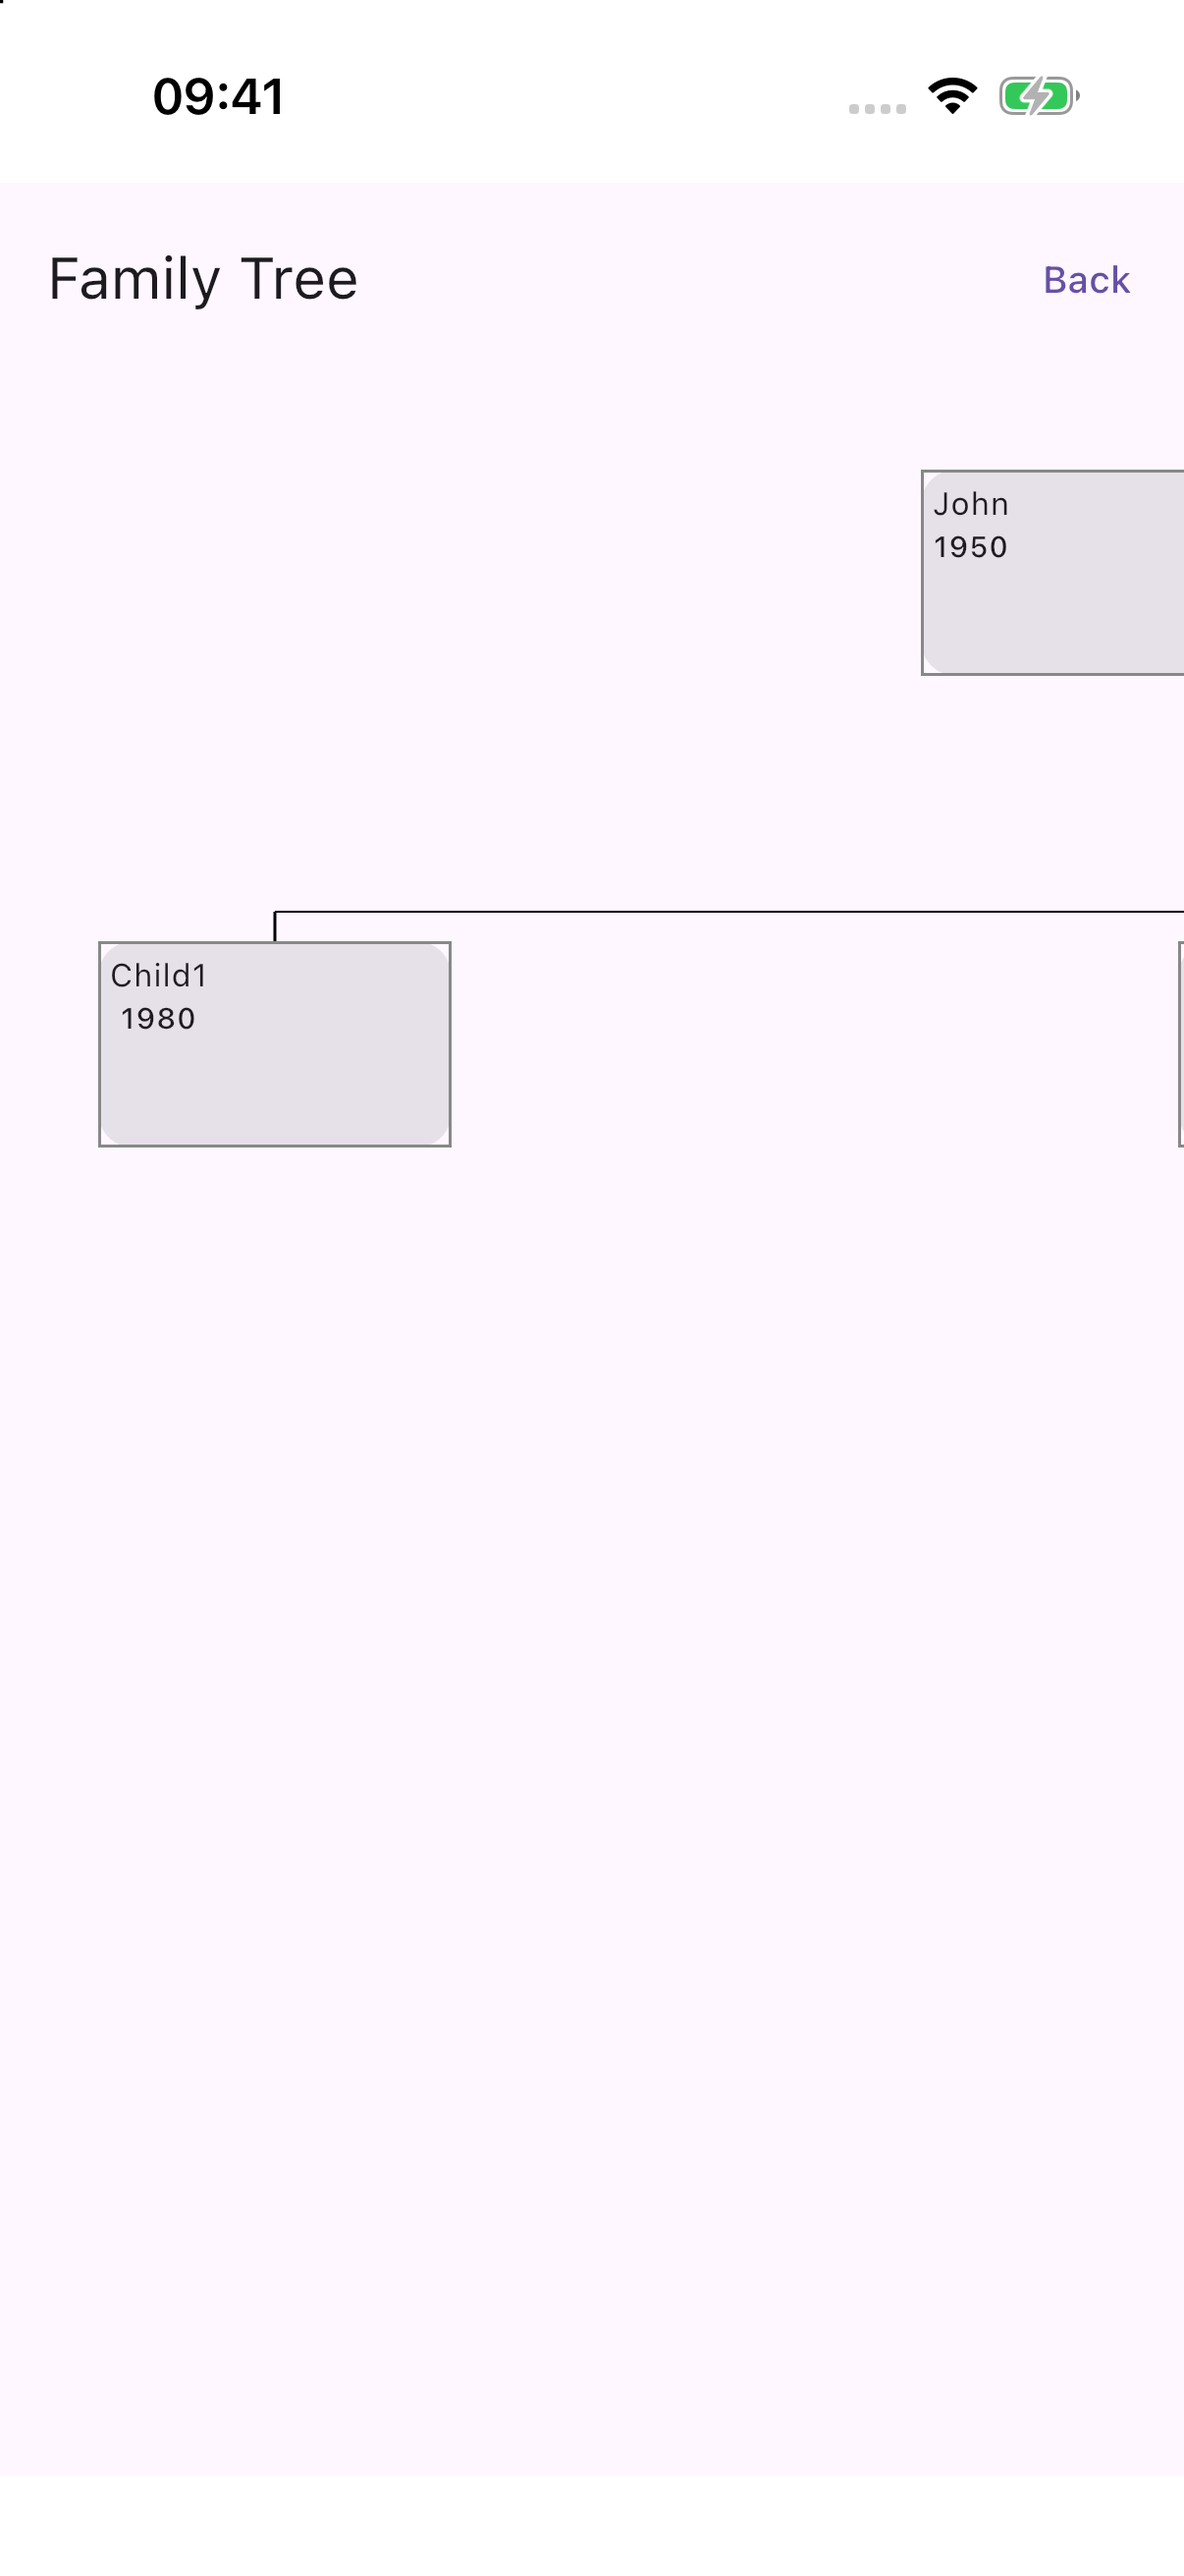
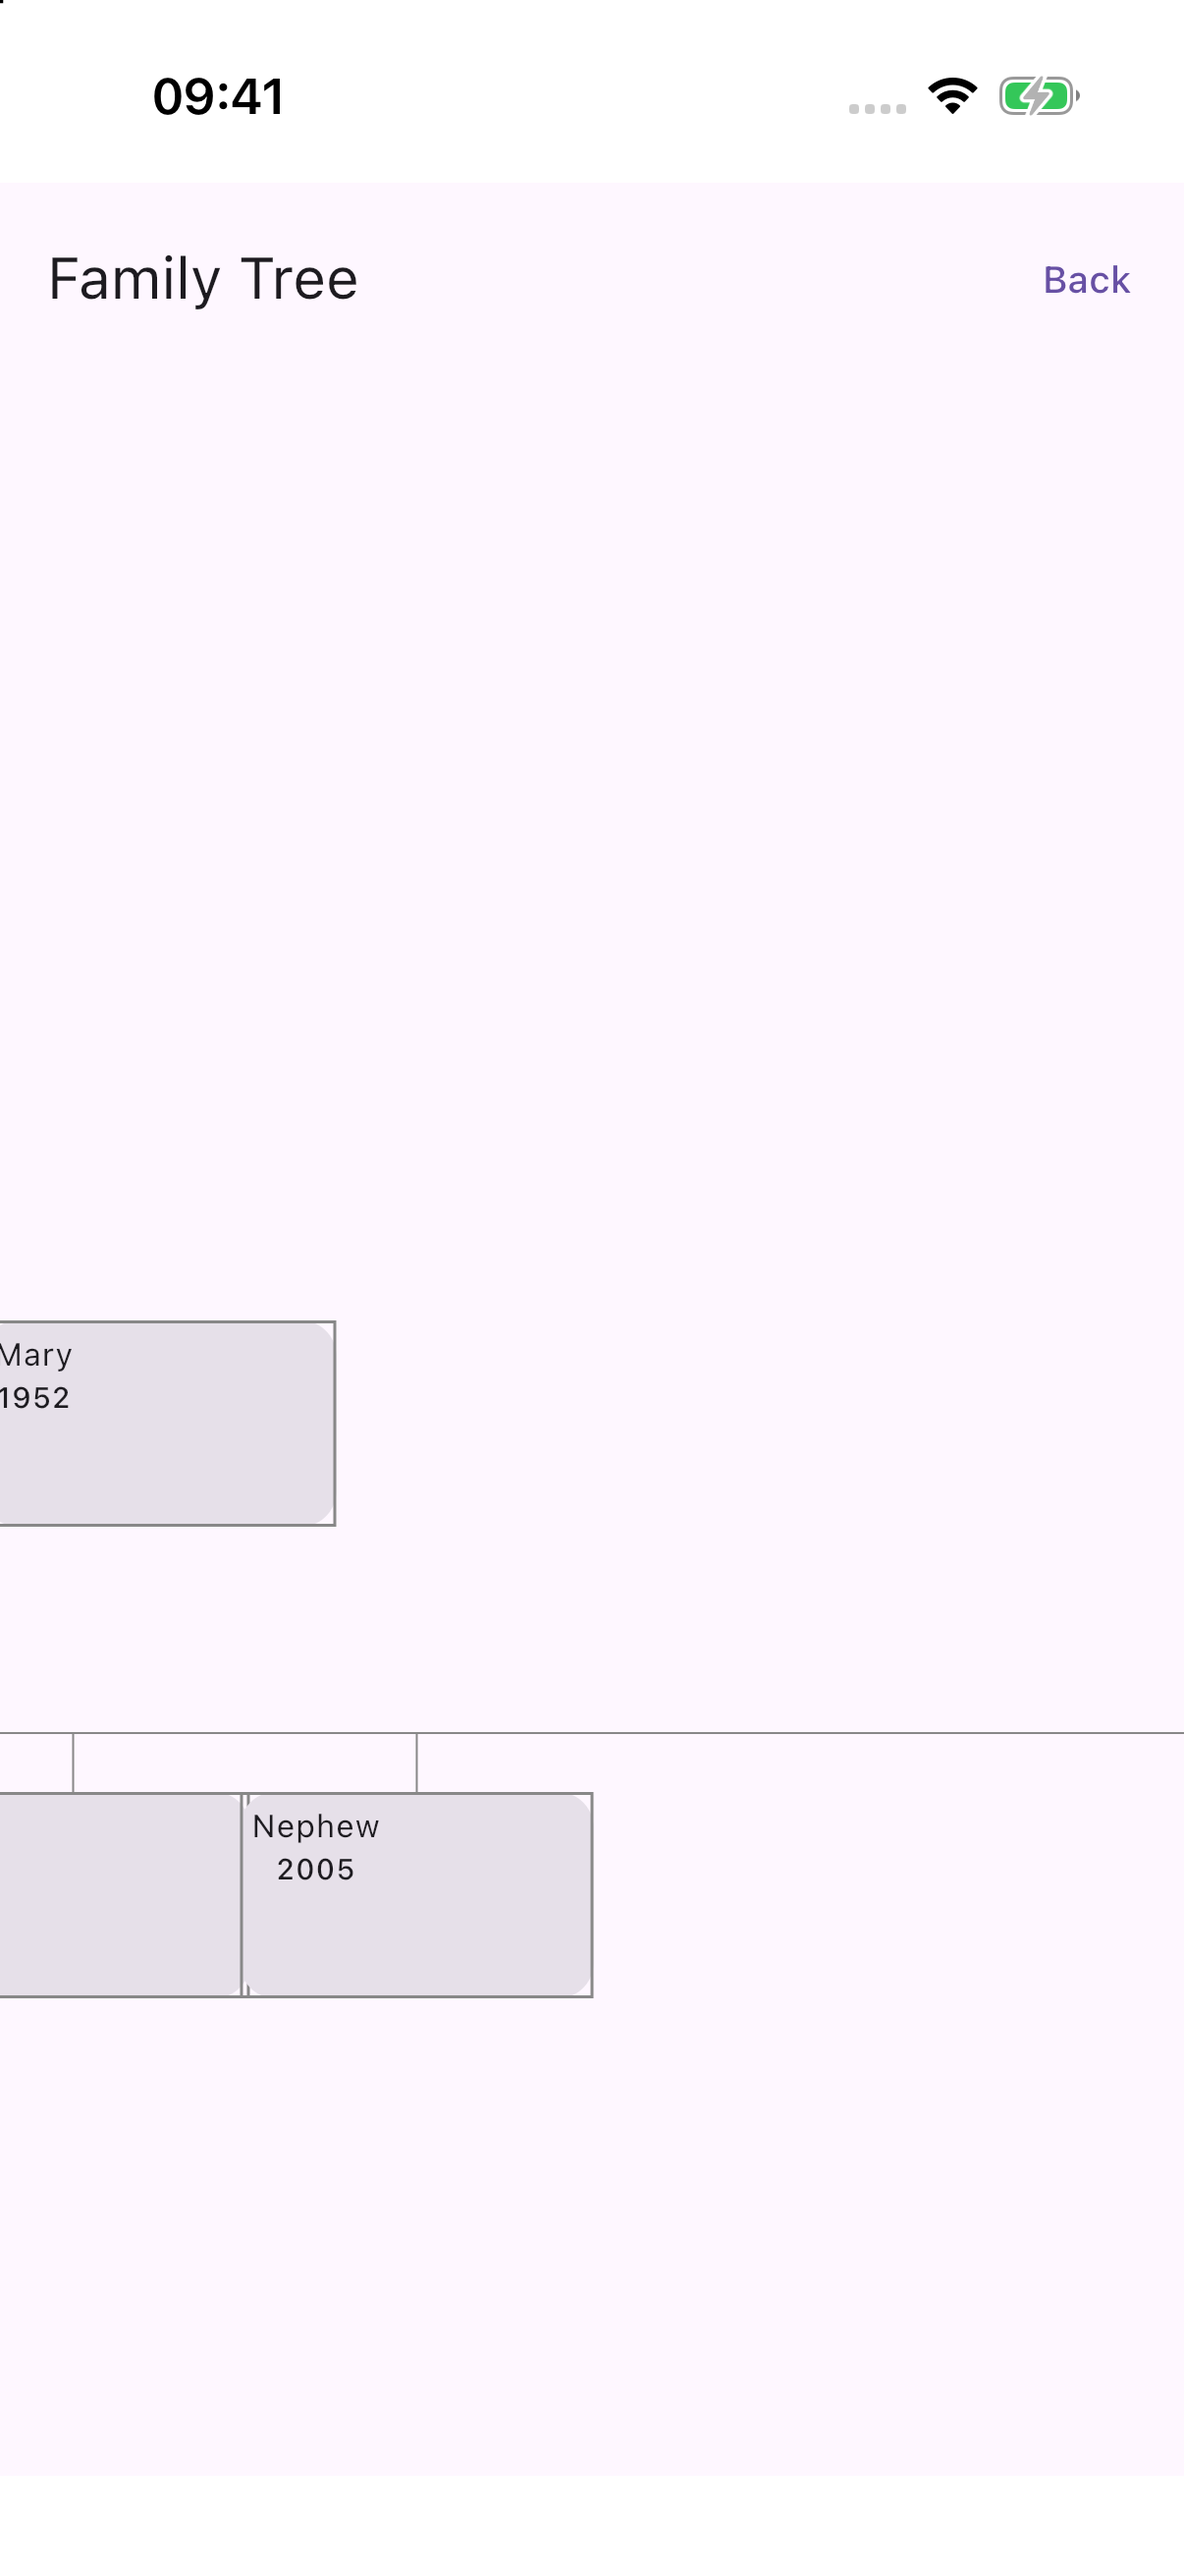
Unify tree rendering, add person focus, and clarify union junctions
Port two upstream FamilyTreeApp commits (7a4f585, 3f734fa) into the
Family Tree screen:
- Size the pan/zoom canvas to the actual graph bounds, auto-focus and
  center an initial (or caller-specified) person, and support
  per-person click callbacks with a highlighted border.
- Replace the straight spouse-to-spouse union line with a routed
  junction: partners connect at a dot between their cards, single
  parents get a short drop to the same junction, and children branch
  from it via a shared horizontal line, keeping dashed adoption links
  and red incestuous-union coloring.

diff --git a/composeApp/src/commonMain/kotlin/com/hannes/familytree/ui/tree/FamilyTreeView.kt b/composeApp/src/commonMain/kotlin/com/hannes/familytree/ui/tree/FamilyTreeView.kt
@@ -2,17 +2,20 @@ package com.hannes.familytree.ui.tree
 
 import androidx.compose.foundation.Canvas
 import androidx.compose.foundation.border
+import androidx.compose.foundation.clickable
 import androidx.compose.foundation.gestures.detectTransformGestures
 import androidx.compose.foundation.layout.Box
 import androidx.compose.foundation.layout.BoxWithConstraints
 import androidx.compose.foundation.layout.Column
 import androidx.compose.foundation.layout.fillMaxSize
 import androidx.compose.foundation.layout.padding
+import androidx.compose.foundation.layout.requiredSize
 import androidx.compose.foundation.layout.size
 import androidx.compose.material3.Card
 import androidx.compose.material3.MaterialTheme
 import androidx.compose.material3.Text
 import androidx.compose.runtime.Composable
+import androidx.compose.runtime.LaunchedEffect
 import androidx.compose.runtime.Stable
 import androidx.compose.runtime.getValue
 import androidx.compose.runtime.mutableStateOf
@@ -68,14 +71,43 @@ fun LazyFamilyTree(
     nodeWidth: Dp = 120.dp,
     nodeHeight: Dp = 70.dp,
     state: FamilyTreeState = rememberFamilyTreeState(),
+    focusedPersonId: String? = null,
+    onPersonClick: (Person) -> Unit = {},
     nodeContent: @Composable (Person) -> Unit = { DefaultPersonCard(it) }
 ) {
     val density = LocalDensity.current
     val nodeWidthPx = with(density) { nodeWidth.toPx() }
     val nodeHeightPx = with(density) { nodeHeight.toPx() }
+    val graphWidthPx = maxOf(
+        graph.width,
+        graph.persons.values.maxOfOrNull { it.x + nodeWidthPx } ?: 0f
+    )
+    val graphHeightPx = maxOf(
+        graph.height,
+        graph.persons.values.maxOfOrNull { it.y + nodeHeightPx } ?: 0f
+    )
+    val graphWidth = with(density) { graphWidthPx.toDp() }.coerceAtLeast(nodeWidth)
+    val graphHeight = with(density) { graphHeightPx.toDp() }.coerceAtLeast(nodeHeight)
+    val initialPersonId = graph.persons.values
+        .minWithOrNull(compareBy<Person> { it.y }.thenBy { it.x })
+        ?.id
+    var internallyFocusedPersonId by remember(graph) {
+        mutableStateOf(focusedPersonId ?: initialPersonId)
+    }
+    val activeFocusedPersonId = focusedPersonId ?: internallyFocusedPersonId
 
     BoxWithConstraints(modifier = modifier.fillMaxSize()) {
         val viewportSize = Size(constraints.maxWidth.toFloat(), constraints.maxHeight.toFloat())
+        val focusedPerson = activeFocusedPersonId?.let(graph.persons::get)
+
+        LaunchedEffect(activeFocusedPersonId, focusedPerson?.x, focusedPerson?.y, viewportSize, state) {
+            if (focusedPerson != null) {
+                state.offset = Offset(
+                    viewportSize.width / 2f - (focusedPerson.x + nodeWidthPx / 2f) * state.scale,
+                    viewportSize.height / 2f - (focusedPerson.y + nodeHeightPx / 2f) * state.scale
+                )
+            }
+        }
 
         // Visible area in graph coordinates: (viewport boundary - offset) / scale
         val visibleRect = Rect(
@@ -96,7 +128,8 @@ fun LazyFamilyTree(
         ) {
             Box(
                 modifier = Modifier
-                    .fillMaxSize()
+                    .align(Alignment.TopStart)
+                    .requiredSize(graphWidth, graphHeight)
                     .graphicsLayer(
                         scaleX = state.scale,
                         scaleY = state.scale,
@@ -106,7 +139,7 @@ fun LazyFamilyTree(
                     )
             ) {
                 Canvas(modifier = Modifier.fillMaxSize()) {
-                    drawUnionLines(graph, nodeWidthPx, nodeHeightPx)
+                    drawUnionLines(graph, visibleRect, nodeWidthPx, nodeHeightPx)
                 }
 
                 FamilyTreeSubcomposer(
@@ -114,6 +147,13 @@ fun LazyFamilyTree(
                     visibleRect = visibleRect,
                     nodeWidth = nodeWidth,
                     nodeHeight = nodeHeight,
+                    focusedPersonId = activeFocusedPersonId,
+                    onPersonClick = { person ->
+                        if (focusedPersonId == null) {
+                            internallyFocusedPersonId = person.id
+                        }
+                        onPersonClick(person)
+                    },
                     nodeContent = nodeContent
                 )
             }
@@ -127,107 +167,170 @@ private fun FamilyTreeSubcomposer(
     visibleRect: Rect,
     nodeWidth: Dp,
     nodeHeight: Dp,
+    focusedPersonId: String?,
+    onPersonClick: (Person) -> Unit,
     nodeContent: @Composable (Person) -> Unit
 ) {
     SubcomposeLayout(modifier = Modifier.fillMaxSize()) { constraints ->
-        // Identify persons within the viewport (with a small buffer/margin)
-        val buffer = 100f
+        val nodeWidthPx = nodeWidth.toPx()
+        val nodeHeightPx = nodeHeight.toPx()
+        val bufferedVisibleRect = visibleRect.inflate(100f)
         val visiblePersons = graph.persons.values.filter { person ->
-            val personRect = Rect(person.x, person.y, person.x + 400f, person.y + 200f) // approximate max size
-            visibleRect.inflate(buffer).overlaps(personRect)
+            bufferedVisibleRect.overlaps(
+                Rect(
+                    person.x,
+                    person.y,
+                    person.x + nodeWidthPx,
+                    person.y + nodeHeightPx
+                )
+            )
         }
-
         val nodePlaceables = visiblePersons.map { person ->
-            val placeable = subcompose(person.id) {
-                Box(modifier = Modifier.size(nodeWidth, nodeHeight)) {
+            val widthPx = nodeWidth.roundToPx()
+            val heightPx = nodeHeight.roundToPx()
+            val placeables = subcompose(person.id) {
+                Box(
+                    Modifier
+                        .size(nodeWidth, nodeHeight)
+                        .then(
+                            if (person.id == focusedPersonId) {
+                                Modifier.border(2.dp, MaterialTheme.colorScheme.primary)
+                            } else {
+                                Modifier
+                            }
+                        )
+                        .clickable { onPersonClick(person) }
+                ) {
                     nodeContent(person)
                 }
-            }.map { it.measure(Constraints()) }
-
-            person to placeable
+            }.map {
+                it.measure(
+                    Constraints(
+                        minWidth = widthPx,
+                        maxWidth = widthPx,
+                        minHeight = heightPx,
+                        maxHeight = heightPx
+                    )
+                )
+            }
+            person to placeables
         }
 
         layout(constraints.maxWidth, constraints.maxHeight) {
             nodePlaceables.forEach { (person, placeables) ->
                 placeables.forEach { placeable ->
-                    placeable.place(person.x.roundToInt(), person.y.roundToInt())
+                    placeable.placeRelative(person.x.roundToInt(), person.y.roundToInt())
                 }
             }
         }
     }
 }
 
-/** Draws union connector lines: spouse links, and parent/child "bus" lines. */
+/** Draws union connector lines: spouse junction, and parent/child branch lines. */
 private fun DrawScope.drawUnionLines(
     graph: FamilyGraph,
+    visibleRect: Rect,
     nodeWidthPx: Float,
     nodeHeightPx: Float
 ) {
     val centerX = nodeWidthPx / 2
     val centerY = nodeHeightPx / 2
+    val junctionRadius = 4.dp.toPx()
+    val singleParentDrop = 12.dp.toPx()
+    val childBranchGap = 20.dp.toPx()
 
     graph.unions.forEach { union ->
         val spouseIds = union.spouseIds
         if (spouseIds.isEmpty()) return@forEach
 
-        val s1 = graph.persons[spouseIds[0]] ?: return@forEach
-        val s2 = if (spouseIds.size > 1) graph.persons[spouseIds[1]] else null
-        val unionColor = if (union.isIncestuous) Color.Red else Color.Black
-        val unionStroke = if (union.isIncestuous) 4f else 3f
+        val spouses = spouseIds.mapNotNull(graph.persons::get)
+        if (spouses.isEmpty()) return@forEach
+        val firstSpouse = spouses.first()
+        val secondSpouse = spouses.getOrNull(1)
+        val unionColor = if (union.isIncestuous) Color.Red else Color.DarkGray
+        val unionStroke = if (union.isIncestuous) 4f else 2f
+        val children = union.childrenIds.mapNotNull(graph.persons::get)
+        val relatedPersons = spouses + children
+        val familyBounds = Rect(
+            left = relatedPersons.minOf { it.x },
+            top = relatedPersons.minOf { it.y },
+            right = relatedPersons.maxOf { it.x + nodeWidthPx },
+            bottom = relatedPersons.maxOf { it.y + nodeHeightPx }
+        )
+        if (!visibleRect.inflate(200f).overlaps(familyBounds)) return@forEach
 
-        // 1. Connector between spouses
-        if (s2 != null) {
+        val junction = if (secondSpouse != null) {
+            val leftSpouse = if (firstSpouse.x <= secondSpouse.x) firstSpouse else secondSpouse
+            val rightSpouse = if (leftSpouse === firstSpouse) secondSpouse else firstSpouse
+            val leftCenterY = leftSpouse.y + centerY
+            val rightCenterY = rightSpouse.y + centerY
+            val lineStart = Offset(leftSpouse.x + nodeWidthPx, leftCenterY)
+            val lineEnd = Offset(rightSpouse.x, rightCenterY)
             drawLine(
                 color = unionColor,
-                start = Offset(s1.x + centerX, s1.y + centerY),
-                end = Offset(s2.x + centerX, s2.y + centerY),
+                start = lineStart,
+                end = lineEnd,
+                strokeWidth = unionStroke
+            )
+
+            Offset(
+                x = (lineStart.x + lineEnd.x) / 2f,
+                y = (lineStart.y + lineEnd.y) / 2f
+            )
+        } else {
+            Offset(firstSpouse.x + centerX, firstSpouse.y + nodeHeightPx + singleParentDrop)
+        }
+
+        if (children.isEmpty()) {
+            if (secondSpouse != null) {
+                drawCircle(unionColor, junctionRadius, junction)
+            }
+            return@forEach
+        }
+
+        val childYTop = children.minOf { it.y } - childBranchGap
+        val parentBottom = firstSpouse.y + nodeHeightPx
+        if (secondSpouse == null) {
+            drawLine(
+                color = unionColor,
+                start = Offset(firstSpouse.x + centerX, parentBottom),
+                end = Offset(junction.x, junction.y - junctionRadius),
                 strokeWidth = unionStroke
             )
         }
+        drawCircle(unionColor, junctionRadius, junction)
 
-        // 2. Lines to children
-        val children = union.childrenIds.mapNotNull { graph.persons[it] }
-        if (children.isNotEmpty()) {
-            val childYTop = children.first().y - 30f // Height of the horizontal bus line
+        val trunkStartY = junction.y + junctionRadius
 
-            val minChildX = children.minOf { it.x }
-            val maxChildX = children.maxOf { it.x }
+        val firstChildX = children.minOf { it.x + centerX }
+        val lastChildX = children.maxOf { it.x + centerX }
+        drawLine(
+            color = unionColor,
+            start = Offset(junction.x, trunkStartY),
+            end = Offset(junction.x, childYTop),
+            strokeWidth = unionStroke
+        )
+        drawLine(
+            color = Color.Gray,
+            start = Offset(firstChildX, childYTop),
+            end = Offset(lastChildX, childYTop),
+            strokeWidth = 2f
+        )
 
-            // Ensure the bus reaches the union stem, even if parents are offset
-            val busLeft = minOf(minChildX, union.x)
-            val busRight = maxOf(maxChildX, union.x)
-
-            // Vertical stem from union to bus
+        children.forEach { child ->
+            val isAdopted = firstSpouse.adoptiveChildrenIds.contains(child.id) ||
+                secondSpouse?.adoptiveChildrenIds?.contains(child.id) == true
             drawLine(
-                color = unionColor,
-                start = Offset(union.x + centerX, union.y + centerY),
-                end = Offset(union.x + centerX, childYTop),
-                strokeWidth = unionStroke
+                color = Color.Gray,
+                start = Offset(child.x + centerX, childYTop),
+                end = Offset(child.x + centerX, child.y),
+                strokeWidth = 2f,
+                pathEffect = if (isAdopted) {
+                    PathEffect.dashPathEffect(floatArrayOf(10f, 10f), 0f)
+                } else {
+                    null
+                }
             )
-
-            // Horizontal bus
-            drawLine(
-                color = unionColor,
-                start = Offset(busLeft + centerX, childYTop),
-                end = Offset(busRight + centerX, childYTop),
-                strokeWidth = 2f
-            )
-
-            // Vertical stems to children
-            children.forEach { child ->
-                val isAdopted = s1.adoptiveChildrenIds.contains(child.id) ||
-                        (s2?.adoptiveChildrenIds?.contains(child.id) == true)
-
-                val pathEffect = if (isAdopted) PathEffect.dashPathEffect(floatArrayOf(10f, 10f), 0f) else null
-
-                drawLine(
-                    color = unionColor,
-                    start = Offset(child.x + centerX, childYTop),
-                    end = Offset(child.x + centerX, child.y),
-                    strokeWidth = 2f,
-                    pathEffect = pathEffect
-                )
-            }
         }
     }
 }
